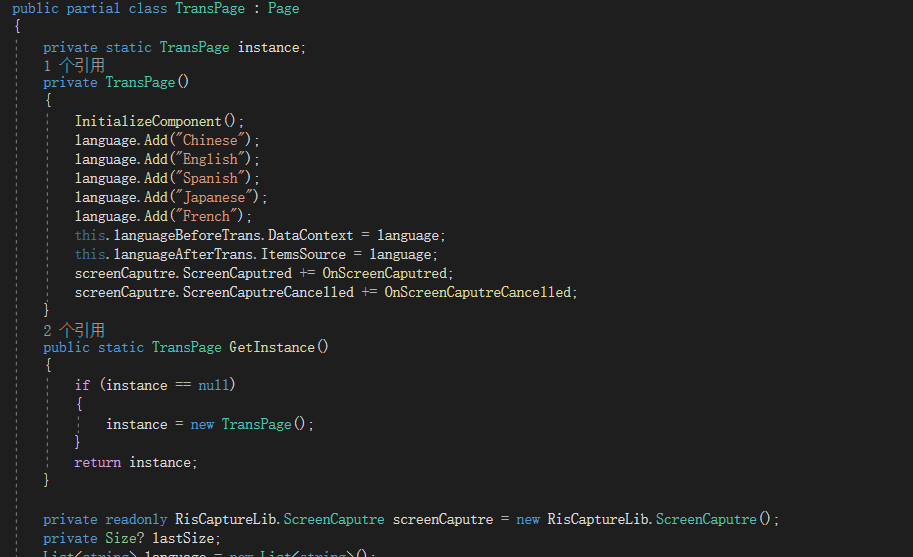
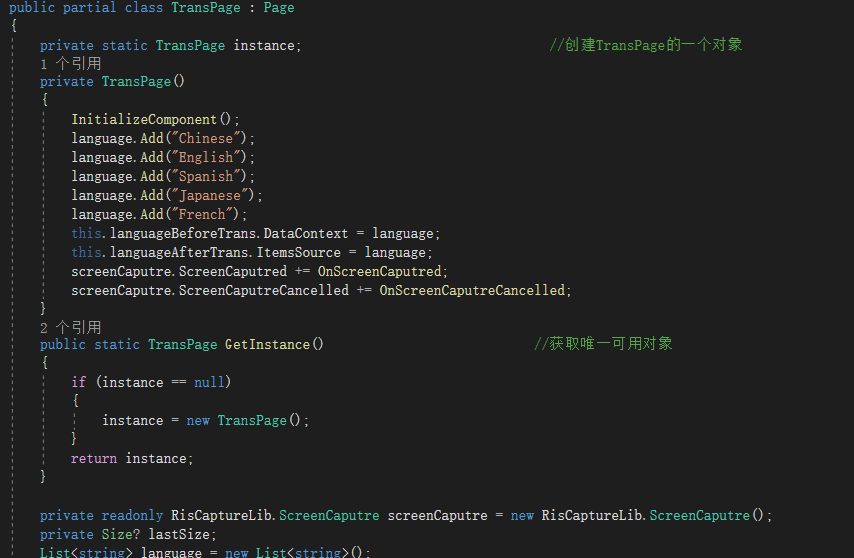
update

diff --git a/client/TranslatorUI/TranslatorUI/MainWindow.xaml.cs b/client/TranslatorUI/TranslatorUI/MainWindow.xaml.cs
@@ -28,7 +28,7 @@ namespace TranslatorUI
         public MainWindow()
         {
             InitializeComponent();
-            TP = TransPage.GetInstance();
+            TP = TransPage.GetInstance();                     
             mainFrame.Content = TP;
         }
         private void btnNav_Click(object sender, RoutedEventArgs e)
@@ -36,12 +36,12 @@ namespace TranslatorUI
             Button btn = sender as Button;
             if (btn.Tag.ToString() == "CommunityPage")
             {
-                CP = CommunityPage.GetInstance();
+                CP = CommunityPage.GetInstance();                           //获取唯一CommunityPage的对象
                 mainFrame.Content = CP;
             }
             else
             {
-                TP = TransPage.GetInstance();
+                TP = TransPage.GetInstance();                             //获取唯一TransPage的对象
                 mainFrame.Content = TP;
             }
         }

diff --git a/client/TranslatorUI/TranslatorUI/Pages/CommunityPage.xaml.cs b/client/TranslatorUI/TranslatorUI/Pages/CommunityPage.xaml.cs
@@ -24,8 +24,8 @@ namespace TranslatorUI.Pages
     /// </summary>
     public partial class CommunityPage : Page
     {
-        private static CommunityPage instance;
-        private CommunityPage() 
+        private static CommunityPage instance;                          //创建CommunityPage的一个对象
+        private CommunityPage()                               
         {
             InitializeComponent();
             UserService = new UserService();
@@ -35,7 +35,7 @@ namespace TranslatorUI.Pages
             this.QuestionList = CommunityService.GetAllQuestions(Page);
             this.QuesItem.ItemsSource = QuestionList;
         }
-        public static CommunityPage GetInstance()
+        public static CommunityPage GetInstance()                       //获取唯一可用的对象
         {
             if (instance == null)
             {

diff --git a/client/TranslatorUI/TranslatorUI/Pages/TransPage.xaml.cs b/client/TranslatorUI/TranslatorUI/Pages/TransPage.xaml.cs
@@ -24,7 +24,7 @@ namespace TranslatorUI.Pages
     /// </summary>
     public partial class TransPage : Page
     {
-        private static TransPage instance;
+        private static TransPage instance;                                //创建TransPage的一个对象
         private TransPage()
         {
             InitializeComponent();
@@ -38,7 +38,7 @@ namespace TranslatorUI.Pages
             screenCaputre.ScreenCaputred += OnScreenCaputred;
             screenCaputre.ScreenCaputreCancelled += OnScreenCaputreCancelled;
         }
-        public static TransPage GetInstance()
+        public static TransPage GetInstance()                           //获取唯一可用对象
         {
             if (instance == null)
             {
